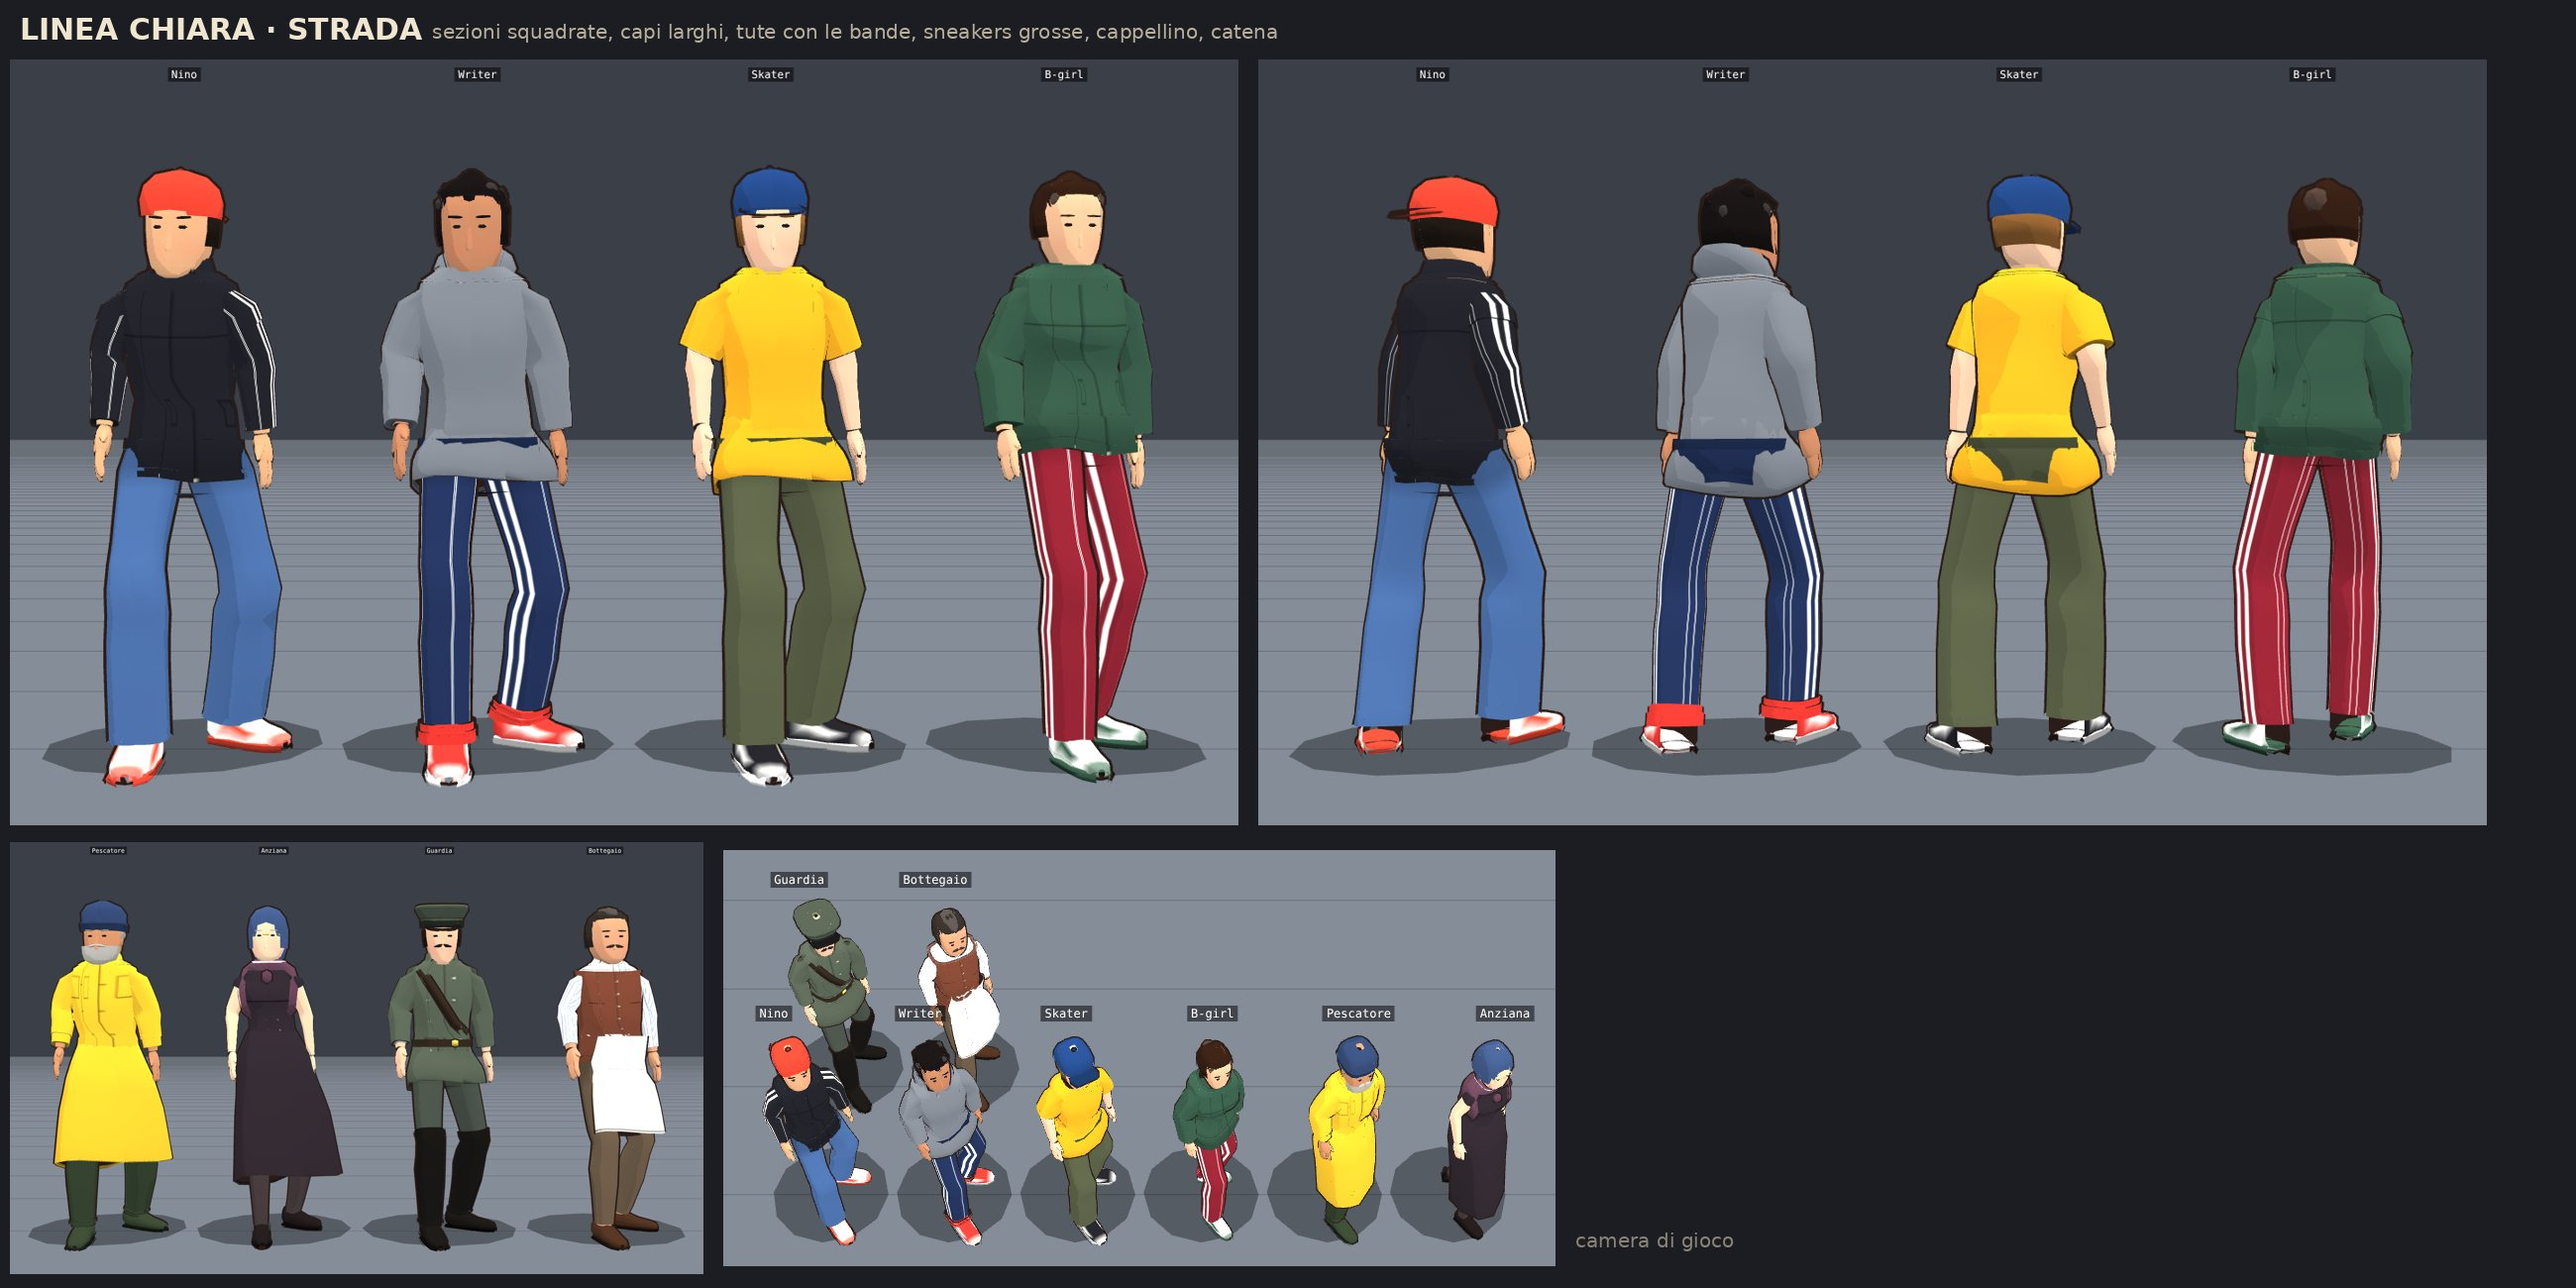
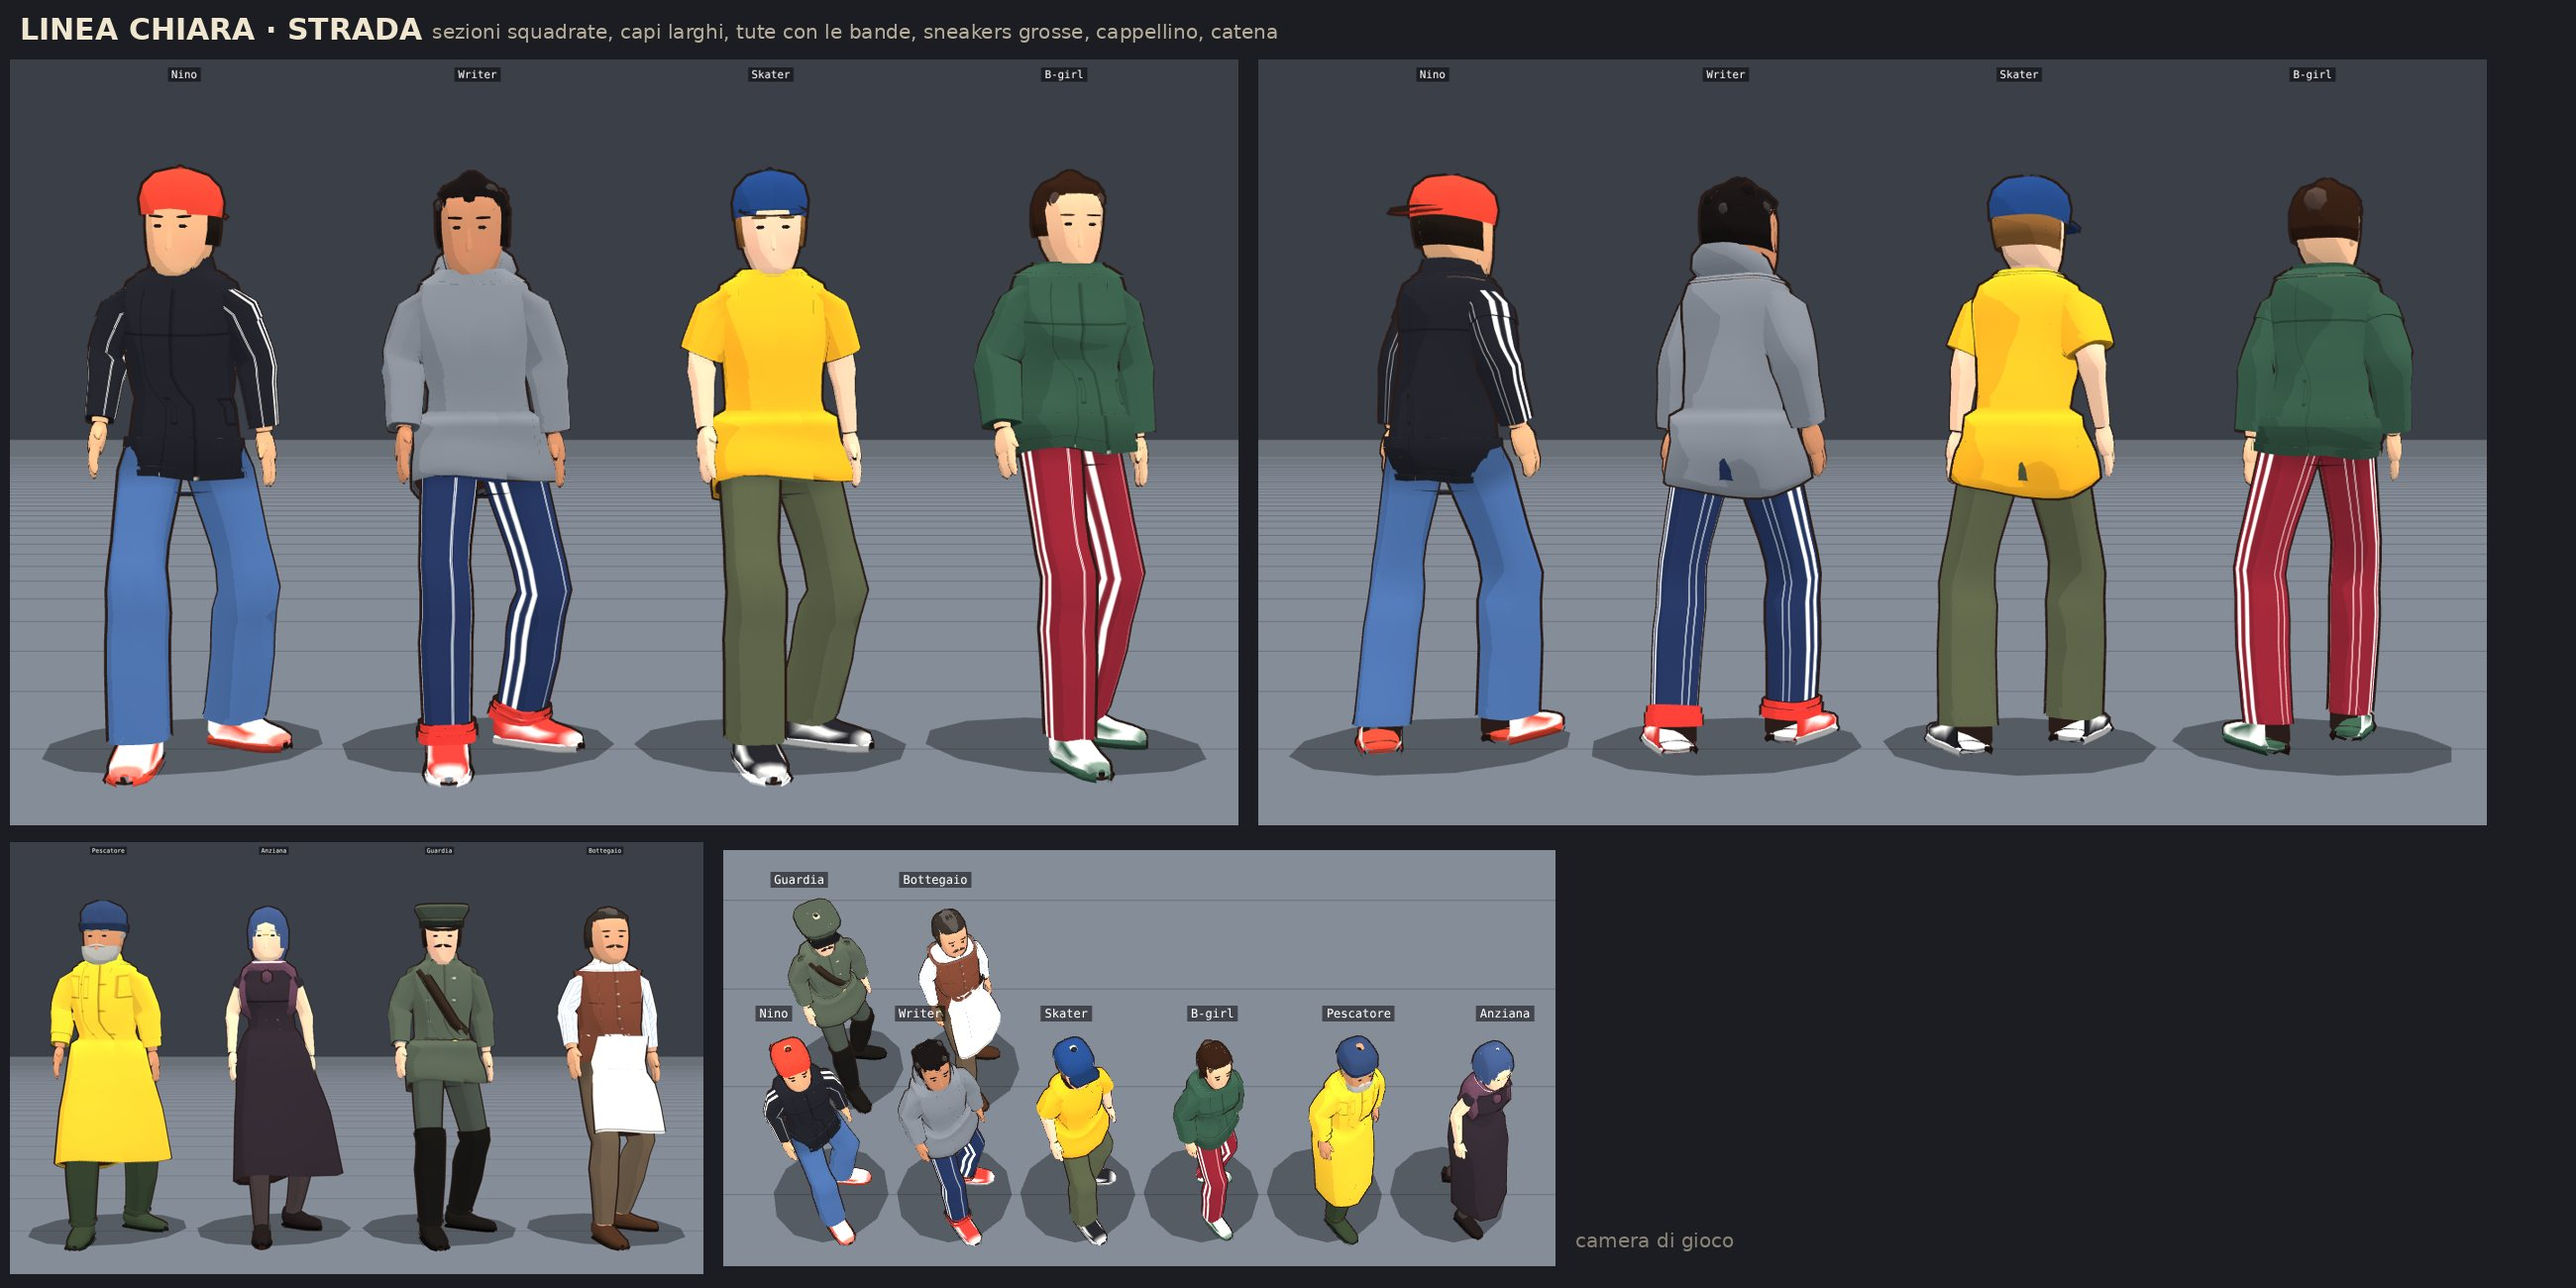
[personaggi] le falde stanno sopra tutto quello che c'è in vita
Claude-Session: https://claude.ai/code/session_01JZTxbDaFvr9eJLacMLFKTo

diff --git a/v7/src/personaggi.js b/v7/src/personaggi.js
@@ -277,8 +277,8 @@ var Personaggi = (function () {
     testa(B, J, D, pelle);
     // ---------------- PEZZI LIBERI: gonne, falde, grembiuli, scialli, colletti, cinture ----------------
     vesti.forEach((v, i) => {
-      if (v.gonna) gonna(B, J, K, profAt, zAt, v.gonna, v, tileOf(v), ptOf(v));
-      if (v.falda) gonna(B, J, K, profAt, zAt, [.3, v.falda[1], v.falda[2] || 1.08], Object.assign({}, v, { aperta: true }), 0, ptOf(v), true);
+      if (v.gonna) gonna(B, J, K, profAt, zAt, v.gonna, v, tileOf(v), ptOf(v), false, listaB);
+      if (v.falda) gonna(B, J, K, profAt, zAt, [.3, v.falda[1], v.falda[2] || 1.08], Object.assign({}, v, { aperta: true }), 0, ptOf(v), true, listaB);
       if (v.grembiule) grembiule(B, J, profAt, zAt, yOf, v);
       if (v.scialle) scialle(B, J, profAt, zAt, yOf, v);
       if (v.colletto) colletto(B, J, profAt, zAt, yOf, v, listaB);
@@ -436,14 +436,15 @@ var Personaggi = (function () {
     }
   }
   // ---------------- GONNE, FALDE DEI CAPPOTTI, VESTITI: pendono dal bacino e seguono le cosce ----------------
-  function gonna(B, J, K, profAt, zAt, g, v, tile, ptile, falda) {
+  function gonna(B, J, K, profAt, zAt, g, v, tile, ptile, falda, LB) {
     const yTop = lerp(J.UpperLegL[1] - .07, J.Neck[1] + .045, g[0]) + (falda ? 0 : 0), yKnee = J.LowerLegL[1], yBot = lerp(J.UpperLegL[1], J.FootL[1] + .03, g[1]), fl = g[2] || 1.2, n = 7, rings = [];
-    const sp = .008, legX = Math.abs(J.UpperLegL[0]);
+    let sp = .008; if (LB) for (let q = -.05; q <= .4; q += .05) sp = Math.max(sp, strati(LB, q).sp + .008);   // sopra tutto quello che sta sotto in vita
+    const legX = Math.abs(J.UpperLegL[0]);
     for (let j = 0; j <= n; j++) {
       const q = j / n, y = lerp(yTop, yBot, q), P0 = profAt(Math.max(y, J.UpperLegL[1] - .06));
-      const baseA = Math.max(P0[0] + .015, legX - .022 + K.gamba * 1.08 + .035), baseB = Math.max(P0[1] + .015, K.gamba + (g[1] > .4 ? .095 : .065));
+      const baseA = Math.max(P0[0] + .015, legX - .022 + K.gamba * 1.08 + .035), baseB = Math.max(P0[1] + .015, K.gamba + (g[1] > .4 ? .095 : .085));
       const qh = cl((yTop - y) / Math.max(.05, yTop - (J.UpperLegL[1] - .05)), 0, 1), k = lerp(1, fl, Math.pow(q, 1.3)), a = lerp(P0[0] + sp + .006 * (falda ? 2.5 : 1), baseA * k, sm(qh)), b = lerp(P0[1] + sp + .006 * (falda ? 2.5 : 1), baseB * k, sm(qh));
-      rings.push({ c: [0, y, zAt(Math.max(y, J.Hips[1] - .05)) - .005], t: [0, -1, 0], f: [0, 0, 1], a, b, fz: q > .3 && !falda ? .01 : P0[2] * (1 - sm(q * 2)), col: C3v(v.col), col2: v.col2 ? C3v(v.col2) : mulc(C3v(v.col), .6), col3: v.col3 ? C3v(v.col3) : mulc(C3v(v.col), .55), v: q, mv: q * (yTop - yBot), ao: lerp(1, .92, q), tile: falda ? tile : TL.abito * 0, ptile,
+      rings.push({ c: [0, y, zAt(Math.max(y, J.Hips[1] - .05)) - .005], t: [0, -1, 0], f: [0, 0, 1], a, b, fz: q > .3 && !falda ? .01 : P0[2] * (1 - sm(q * 2)) - (falda ? .012 * sm(q * 2) : 0), col: C3v(v.col), col2: v.col2 ? C3v(v.col2) : mulc(C3v(v.col), .6), col3: v.col3 ? C3v(v.col3) : mulc(C3v(v.col), .55), v: q, mv: q * (yTop - yBot), ao: lerp(1, .92, q), tile: falda ? tile : TL.abito * 0, ptile,
         mod: th => { const fr = Math.cos(th); let d = Math.sin(th * (falda ? 6 : 9)) * .035 * sm(q * 1.4); return d; } });
     }
     { const r0 = rings[0], P1 = profAt(yTop + .04); rings.unshift(Object.assign({}, r0, { c: [r0.c[0], yTop + .04, zAt(yTop + .04) - .005], a: P1[0] - .002, b: P1[1] - .002, fz: P1[2], mod: null, ao: .8 })); }   // l'attacco: dentro il busto, così dall'alto non si vede il vuoto
